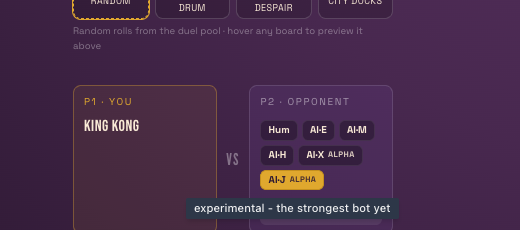
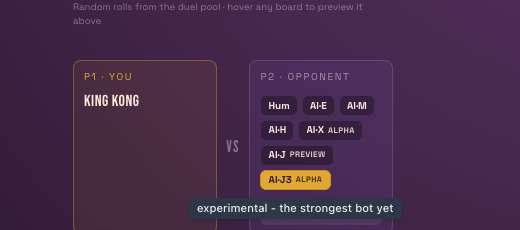
unbrewed-p2p-933: NEXT_PUBLIC_JEVX3_ALLOWLIST unlocks jevx3 for listed signed-in accounts
Comma-separated account ids and/or usernames (case-insensitive), parsed and
checked by pure functions in lib/pro/tierUnlock.ts, which is the only place
that reads the env var. Unset means nobody. Guests are never allowlisted. A
listed player is unlocked without waiting on /me/stats. Documented with the
other build-time vars in the Next.js workflow. Screenshots retaken with the
feat branch's jev tier next to jevx3 (chip AI·J3).

Claude-Session: https://claude.ai/code/session_01Tj4Pn3XJPmii7XUAJVDP5Z

diff --git a/lib/pro/tierUnlock.test.ts b/lib/pro/tierUnlock.test.ts
@@ -3,10 +3,13 @@
  * every state short of a confirmed 15-win record must fail CLOSED.
  */
 import type { AccountStats, BotStat } from "../account/stats";
+import type { AccountState } from "../account/useAccount";
 import { botTierMeta, coerceBotTier } from "./botTiers";
 import {
   applyTierLocks,
   GUEST_HINT,
+  isAllowlisted,
+  parseAllowlist,
   LOADING_HINT,
   lockedTiers,
   TIER_UNLOCK,
@@ -130,5 +133,63 @@ describe("applyTierLocks / lockedTiers", () => {
     const locked = lockedTiers(tierUnlockProgress("ready", expertWins(15)));
     expect(locked).toEqual([]);
     expect(coerceBotTier("jevx3", CHOICES.map((c) => c.id))).toBe("jevx3");
+  });
+});
+
+describe("NEXT_PUBLIC_JEVX3_ALLOWLIST", () => {
+  const signedIn = (id: string, username: string): AccountState => ({
+    status: "signed-in",
+    account: { id, username, avatarUrl: null },
+  });
+  const GUEST: AccountState = { status: "guest", account: null };
+
+  it("unset or empty = nobody", () => {
+    expect(parseAllowlist(undefined)).toEqual([]);
+    expect(parseAllowlist(null)).toEqual([]);
+    expect(parseAllowlist("")).toEqual([]);
+    expect(parseAllowlist("  ,  , ")).toEqual([]);
+    expect(isAllowlisted(signedIn("u1", "Dean"), parseAllowlist(undefined))).toBe(false);
+  });
+
+  it("trims whitespace and ignores empty entries / trailing commas", () => {
+    expect(parseAllowlist(" 123 , Dean,, jolly ,")).toEqual(["123", "Dean", "jolly"]);
+  });
+
+  it("matches an account id exactly", () => {
+    const list = parseAllowlist("1234567890,someone");
+    expect(isAllowlisted(signedIn("1234567890", "Tester"), list)).toBe(true);
+    expect(isAllowlisted(signedIn("123456789", "Tester"), list)).toBe(false);
+  });
+
+  it("matches a username case-insensitively", () => {
+    expect(isAllowlisted(signedIn("u9", "JollyGrin"), parseAllowlist("jollygrin"))).toBe(true);
+    expect(isAllowlisted(signedIn("u9", "jollygrin"), parseAllowlist(" JOLLYGRIN ,"))).toBe(true);
+  });
+
+  it("a guest is never allowlisted, even with a matching name", () => {
+    expect(isAllowlisted(GUEST, parseAllowlist("guest,Tester"))).toBe(false);
+    expect(isAllowlisted({ status: "offline", account: null }, parseAllowlist("Tester"))).toBe(false);
+    expect(isAllowlisted({ status: "loading", account: null }, parseAllowlist("Tester"))).toBe(false);
+    // …and the progress function refuses it too, as a second guard.
+    expect(tierUnlockProgress("guest", null, true).unlocked).toBe(false);
+  });
+
+  it("an allowlisted player with 0 wins is unlocked", () => {
+    const allowed = isAllowlisted(signedIn("u1", "Tester"), parseAllowlist("tester"));
+    expect(tierUnlockProgress("ready", expertWins(0), allowed)).toEqual({ unlocked: true, wins: 0 });
+  });
+
+  it("an allowlisted player is unlocked without waiting on the stats fetch", () => {
+    expect(tierUnlockProgress("loading", null, true)).toEqual({ unlocked: true, wins: null });
+    expect(tierUnlockProgress("unavailable", null, true).unlocked).toBe(true);
+  });
+
+  it("a non-listed player with 14 wins stays locked", () => {
+    const allowed = isAllowlisted(signedIn("u2", "Other"), parseAllowlist("tester,u1"));
+    expect(allowed).toBe(false);
+    expect(tierUnlockProgress("ready", expertWins(14), allowed)).toMatchObject({
+      unlocked: false,
+      hint: "14/15 wins vs Expert to unlock",
+    });
   });
 });

diff --git a/lib/pro/tierUnlock.ts b/lib/pro/tierUnlock.ts
@@ -11,8 +11,15 @@
  * `byOpponentKind` all leave the chip locked. The server still decides whether
  * the chip appears at all (`HeroListing.botTiers`, see ./botTiers.ts); this
  * module only ever narrows what it offers.
+ *
+ * Second way in: the build-time `NEXT_PUBLIC_JEVX3_ALLOWLIST` (comma-separated
+ * account ids and/or usernames). A SIGNED-IN player on it is unlocked regardless
+ * of their record and without waiting on the stats request; guests never are.
+ * Unset/empty = nobody. It is baked into the public bundle — ids/usernames only,
+ * never secrets.
  */
 import type { AccountStats } from "../account/stats";
+import type { AccountState } from "../account/useAccount";
 import type { AccountStatsStatus } from "../account/useAccountStats";
 
 import type { BotTierChoice } from "./botTiers";
@@ -41,7 +48,46 @@ export const progressHint = (wins: number) => `${wins}/${TIER_UNLOCK.wins} wins 
 export const winsVsRequired = (stats: AccountStats | null): number =>
   stats?.byOpponentKind?.bots.find((b) => b.difficulty === TIER_UNLOCK.requires)?.wins ?? 0;
 
-export function tierUnlockProgress(status: AccountStatsStatus, stats: AccountStats | null): TierUnlockProgress {
+/**
+ * Parse the allowlist's raw value: comma-separated, entries trimmed, empty ones
+ * (blank value, stray/trailing commas) dropped. Takes the raw string so tests
+ * never touch `process.env`.
+ */
+export const parseAllowlist = (raw: string | null | undefined): string[] =>
+  (raw ?? "")
+    .split(",")
+    .map((entry) => entry.trim())
+    .filter((entry) => entry.length > 0);
+
+/**
+ * Is this account on the allowlist? Only a SIGNED-IN account can be: its id
+ * matches exactly, its username case-insensitively. Guests/offline/loading never.
+ */
+export function isAllowlisted(account: AccountState, allowlist: readonly string[]): boolean {
+  if (account.status !== "signed-in" || allowlist.length === 0) return false;
+  const { id, username } = account.account;
+  const name = username.toLowerCase();
+  return allowlist.some((entry) => entry === id || entry.toLowerCase() === name);
+}
+
+/**
+ * The one place the env var is read. Next inlines `NEXT_PUBLIC_*` at build time,
+ * so this is a constant of the bundle, not a runtime lookup.
+ */
+export const JEVX3_ALLOWLIST: readonly string[] = parseAllowlist(process.env.NEXT_PUBLIC_JEVX3_ALLOWLIST);
+
+/**
+ * Progress toward the gated tier. `allowlisted` (see `isAllowlisted`) unlocks
+ * outright — but never for a guest/offline status, as a second guard.
+ */
+export function tierUnlockProgress(
+  status: AccountStatsStatus,
+  stats: AccountStats | null,
+  allowlisted = false,
+): TierUnlockProgress {
+  if (allowlisted && status !== "guest" && status !== "offline") {
+    return { unlocked: true, wins: status === "ready" && stats ? winsVsRequired(stats) : null };
+  }
   switch (status) {
     case "guest":
     case "offline":

diff --git a/pages/pro/game.tsx b/pages/pro/game.tsx
@@ -22,7 +22,7 @@ import { MOVE_STEP_SECONDS, MoveHint, PendingMove, ProBoard } from "@/components
 import { ProErrorBoundary } from "@/components/Pro/ProErrorBoundary";
 import { assignableSeats, BotSlotPlan, SlotOccupant } from "@/components/Pro/CreateSeats";
 import { availableBotTiers, botTierChoices, BotTierChoice, coerceBotTier } from "@/lib/pro/botTiers";
-import { applyTierLocks, lockedTiers, TierUnlockProgress, tierUnlockProgress } from "@/lib/pro/tierUnlock";
+import { applyTierLocks, isAllowlisted, JEVX3_ALLOWLIST, lockedTiers, TierUnlockProgress, tierUnlockProgress } from "@/lib/pro/tierUnlock";
 import { OpponentChoice, useOpponentSeat } from "@/lib/pro/opponentSeat";
 import { stateHash } from "@/lib/pro/stateHash";
 import {
@@ -4217,11 +4217,17 @@ const LiveGame = ({ room, heroParam, vsBot, debug, quickParam }: { room: string 
   // `useProSocket` has already kicked off. Only the forfeit dialog reads it —
   // cosmetic points exist for signed-in players, so only they are told what
   // conceding costs (#636).
-  const { status: accountStatus } = useAccount();
+  const accountState = useAccount();
+  const { status: accountStatus } = accountState;
   // The jevx3 unlock gate (#933) reads the record vs Expert. A guest makes no
   // request (useAccountStats waits for "signed-in"); every non-ready state locks.
+  // A signed-in player on the build-time allowlist is unlocked outright.
   const { status: statsStatus, stats: accountStats } = useAccountStats();
-  const tierUnlock = tierUnlockProgress(statsStatus, accountStats);
+  const tierUnlock = tierUnlockProgress(
+    statsStatus,
+    accountStats,
+    isAllowlisted(accountState, JEVX3_ALLOWLIST),
+  );
   const [joined, setJoined] = useState(false);
   // `selectedHeroId` holds a real hero id — or RANDOM_HERO_ID (#697), which is
   // resolved to one at the create/join click and written back here, so every
